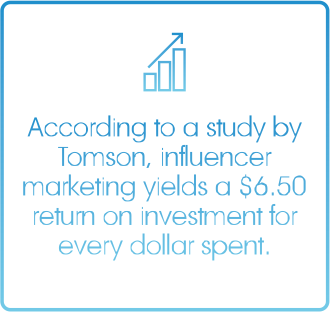
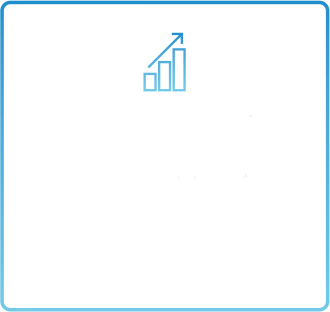
latest

Changed region(s): [[0.0606, 0.375, 0.9394, 0.7212], [0.3939, 0.75, 0.8182, 0.8365], [0.1818, 0.75, 0.3636, 0.8365]]

diff --git a/src/components/businessComponents/AnimationTwoFactory.js b/src/components/businessComponents/AnimationTwoFactory.js
@@ -561,7 +561,7 @@ const NewComponent = (props) => {
           TextmeshCenter7.position.y = -150;
           CenterBlockA_mesh.add(TextmeshCenter7);
           //CenterBlockA side text
-//xx
+
           const LeftBlockA = new THREE.MeshBasicMaterial({
               map:new THREE.TextureLoader().load(LeftBlock)
           });
@@ -636,9 +636,41 @@ const NewComponent = (props) => {
           RightBlockA_mesh.layers.set(1);
           RightBlockA_mesh.scale.set(0.22,0.22,0.22);
           scene2.add(RightBlockA_mesh);
+
+
+          var textGeometryRight = new THREE.TextGeometry(LocalizeComponent.according, textOptionsLeft);
+          var TextmeshRight = new THREE.Mesh( textGeometryRight, textMaterialLeft );
+          TextmeshRight.geometry.center();
+          TextmeshRight.position.y = 30;
+          RightBlockA_mesh.add(TextmeshRight);
+
+          var textGeometryRight2 = new THREE.TextGeometry(LocalizeComponent.according2, textOptionsLeft);
+          var TextmeshRight2 = new THREE.Mesh( textGeometryRight2, textMaterialLeft );
+          TextmeshRight2.geometry.center();
+          TextmeshRight2.position.y = 0;
+          RightBlockA_mesh.add(TextmeshRight2);
+
+          var textGeometryRight3 = new THREE.TextGeometry(LocalizeComponent.according3, textOptionsLeft);
+          var TextmeshRight3 = new THREE.Mesh( textGeometryRight3, textMaterialLeft );
+          TextmeshRight3.geometry.center();
+          TextmeshRight3.position.y = -30;
+          RightBlockA_mesh.add(TextmeshRight3);
+
+          var textGeometryRight4 = new THREE.TextGeometry(LocalizeComponent.according4, textOptionsLeft);
+          var TextmeshRight4 = new THREE.Mesh( textGeometryRight4, textMaterialLeft );
+          TextmeshRight4.geometry.center();
+          TextmeshRight4.position.y = -60;
+          RightBlockA_mesh.add(TextmeshRight4);
+
+          var textGeometryRight5 = new THREE.TextGeometry(LocalizeComponent.according5, textOptionsLeft);
+          var TextmeshRight5 = new THREE.Mesh( textGeometryRight5, textMaterialLeft );
+          TextmeshRight5.geometry.center();
+          TextmeshRight5.position.y = -90;
+          RightBlockA_mesh.add(TextmeshRight5);
           //blocks
 
   }//page 1 close tag
+
     //persons
     const downloadperson = new THREE.MeshBasicMaterial({
         map:new THREE.TextureLoader().load(Person)

diff --git a/src/localize/LocalizeComponent.js b/src/localize/LocalizeComponent.js
@@ -128,6 +128,12 @@ let strings = new LocalizedStrings({
    marketers4:"comparable to or better",
    marketers5:"than other marketing",
    marketers6:"channels",
+   according:"According to a study by",
+   according2:"Tomson, influencer",
+   according3:"marketing yields a $ 6.50",
+   according4:"return on investment for",
+   according5:"every dollar spent",
+
 
  },
  it: {
